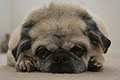
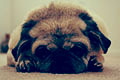
doc: updated images with X-Pro II Instagram filter

diff --git a/tests/index.html b/tests/index.html
@@ -187,7 +187,7 @@
 						<ul class="list-inline no-mg-bt">
 							<li>
 								<a href="https://github.com/sylouuu" title="Visit my GitHub profile">
-									<img src="../assets/img/github/github_logo.png" alt="github logo">
+									<img src="../assets/img/social/github_logo.png" alt="github logo">
 								</a>
 							</li>
 							<li>

diff --git a/demo.html b/demo.html
@@ -332,7 +332,7 @@
 						<ul class="list-inline no-mg-bt">
 							<li>
 								<a href="https://github.com/sylouuu" title="Visit my GitHub profile">
-									<img src="assets/img/github/github_logo.png" alt="github logo">
+									<img src="assets/img/social/github_logo.png" alt="github logo">
 								</a>
 							</li>
 							<li>

diff --git a/documentation.html b/documentation.html
@@ -366,7 +366,7 @@
 						<ul class="list-inline no-mg-bt">
 							<li>
 								<a href="https://github.com/sylouuu" title="Visit my GitHub profile">
-									<img src="assets/img/github/github_logo.png" alt="github logo">
+									<img src="assets/img/social/github_logo.png" alt="github logo">
 								</a>
 							</li>
 							<li>

diff --git a/index.html b/index.html
@@ -148,7 +148,7 @@
 						<ul class="list-inline no-mg-bt">
 							<li>
 								<a href="https://github.com/sylouuu" title="Visit my GitHub profile">
-									<img src="assets/img/github/github_logo.png" alt="github logo">
+									<img src="assets/img/social/github_logo.png" alt="github logo">
 								</a>
 							</li>
 							<li>
